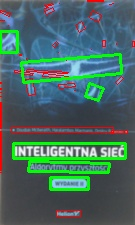
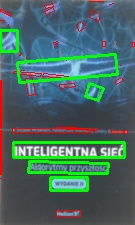
Text detector
Trying to detect text, issue with height and width of contour bounding rectangle.

diff --git a/Document-Perspective-Corrector/src/AutomaticPerspectiveCorrector/AutomaticPerspectiveCorrector.cpp b/Document-Perspective-Corrector/src/AutomaticPerspectiveCorrector/AutomaticPerspectiveCorrector.cpp
@@ -13,18 +13,19 @@
 AutomaticPerspectiveCorrector::AutomaticPerspectiveCorrector(cv::Mat sourceImage)
 	:sourceImage(sourceImage)
 {
-	NormalizeImageSize();
-	finalImage = this->sourceImage.clone();
+	this->sourceImage = NormalizeImageSize(this->sourceImage);
+	processedImage = this->sourceImage.clone();
 }
 
-void AutomaticPerspectiveCorrector::NormalizeImageSize()
+cv::Mat AutomaticPerspectiveCorrector::NormalizeImageSize(cv::Mat image)
 {
-	cv::resize(sourceImage, sourceImage, cv::Size(1200, 1600), cv::INTER_LANCZOS4);
+	cv::resize(image, image, cv::Size(1200, 1600), cv::INTER_LANCZOS4);
+	return image;
 }
 
 cv::Mat AutomaticPerspectiveCorrector::GetCorrectedImage()
 {
-	PreprocessImage();
+	processedImage = PreprocessImage(processedImage);
 	FindLargestCountur();
 
 	if (!debug) {
@@ -42,17 +43,16 @@ cv::Mat AutomaticPerspectiveCorrector::GetCorrectedImage()
 	}
 	
 	CorrectPerspective();
-	DetectText();
 
-
-	return sourceImage;
+	return processedImage;
 }
 
-void AutomaticPerspectiveCorrector::PreprocessImage()
+cv::Mat AutomaticPerspectiveCorrector::PreprocessImage(cv::Mat image)
 {
-	cv::cvtColor(finalImage, finalImage, cv::COLOR_BGR2GRAY);
-	finalImage.convertTo(finalImage, -1, 1, -50);
-	cv::threshold(finalImage, finalImage, 80, 255, cv::THRESH_BINARY);
+	cv::cvtColor(image, image, cv::COLOR_BGR2GRAY);
+	image.convertTo(image, -1, 1, -40);
+	cv::threshold(image, image, 80, 255, cv::THRESH_BINARY);
+	return image;
 }
 
 void AutomaticPerspectiveCorrector::FindLargestCountur()
@@ -62,7 +62,7 @@ void AutomaticPerspectiveCorrector::FindLargestCountur()
 	int maxImageArea = 1200 * 1600;
 	int eightyPercentOfMaxArea = 80 * maxImageArea / 100;
 
-	cv::findContours(finalImage, contours, hierarchy, cv::RETR_TREE, cv::CHAIN_APPROX_SIMPLE);
+	cv::findContours(processedImage, contours, hierarchy, cv::RETR_TREE, cv::CHAIN_APPROX_SIMPLE);
 	for (int i = 2; i < contours.size(); i++)
 	{
 		if (cv::contourArea(contours[i]) > cv::contourArea(contours[largestContourIndex]) && cv::contourArea(contours[i]) < eightyPercentOfMaxArea)
@@ -122,82 +122,62 @@ void AutomaticPerspectiveCorrector::CorrectPerspective()
 		destinationCorners.push_back(cv::Point(0, 0));
 		destinationCorners.push_back(cv::Point(destinationImageWidth - 1, 0));
 	}
+
 	homography = cv::findHomography(documentCorners, destinationCorners);
-
-	cv::warpPerspective(sourceImage, sourceImage, homography, cv::Size(destinationImageWidth, destinationImageHeight));	
+	cv::warpPerspective(sourceImage, processedImage, homography, cv::Size(destinationImageWidth, destinationImageHeight));	
 }
-
-
-
-void AutomaticPerspectiveCorrector::DetectText()
-{
-	cv::Mat rgb;
-
-	cv::pyrDown(sourceImage, rgb);
-	cv::pyrDown(rgb, rgb);
-
-	cv::Mat small;
-	cv::cvtColor(rgb, small, CV_BGR2GRAY);
-	SHOW(small);
-	cv::Mat grad;
-	cv::Mat morphKernel = cv::getStructuringElement(cv::MORPH_ELLIPSE, cv::Size(3, 3));
-
-	cv::morphologyEx(small, grad, cv::MORPH_GRADIENT, morphKernel);
-
-	cv::Mat bw;
-	cv::threshold(grad, bw, 0.0, 255.0, cv::THRESH_BINARY | cv::THRESH_OTSU);
-
-	cv::Mat connected;
-	morphKernel = cv::getStructuringElement(cv::MORPH_RECT, cv::Size(9,1));
-	cv::morphologyEx(bw, connected, cv::MORPH_CLOSE, morphKernel);
-	cv::Mat mask = cv::Mat::zeros(bw.size(), CV_8UC1);
-	std::vector<std::vector<cv::Point> > contours;
-	std::vector<cv::Vec4i> hierarchy;
-	cv::findContours(connected, contours, hierarchy, CV_RETR_CCOMP, CV_CHAIN_APPROX_SIMPLE, cv::Point(0, 0));
-	
-
-	for (int idx = 0; idx >= 0; idx = hierarchy[idx][0]) {
-		cv::Rect rect = boundingRect(contours[idx]);
-		cv::Mat maskROI(mask, rect);
-		maskROI = cv::Scalar(0, 0, 0);
-		
-		drawContours(mask, contours, idx, cv::Scalar(255, 255, 255), CV_FILLED);
-
-		cv::RotatedRect rrect = minAreaRect(contours[idx]);
-		double r = (double)countNonZero(maskROI) / (rrect.size.width * rrect.size.height);
-
-		cv::Scalar color;
-		int thickness = 1;
-		
-		if (r > 0.25 &&(rrect.size.height > 8 && rrect.size.width > 8))
-		{
-			thickness = 2;
-			color = cv::Scalar(0, 255, 0);
-		}
-		else
-		{
-			thickness = 1;
-			color = cv::Scalar(0, 0, 255);
-		}
-
-		cv::Point2f pts[4];
-		rrect.points(pts);
-		for (int i = 0; i < 4; i++)
-		{
-			line(rgb, cv::Point((int)pts[i].x, (int)pts[i].y), cv::Point((int)pts[(i + 1) % 4].x, (int)pts[(i + 1) % 4].y), color, thickness);
-		}
-	}
-
-	cv::imwrite("cont.jpg", rgb);
-
-}
-
-
 
 int AutomaticPerspectiveCorrector::MeasureDistanceBetweenPoints(cv::Point a, cv::Point b)
 {
 	return sqrt(pow(b.x - a.x, 2) + pow(b.y - a.y, 2));
 }
+
+
+void AutomaticPerspectiveCorrector::DetectText()
+{
+	cv::Mat imageForDetection = processedImage;
+
+	imageForDetection = PreprocessImage(imageForDetection);
+
+
+	cv::findContours(imageForDetection, contours, hierarchy, CV_RETR_CCOMP, CV_CHAIN_APPROX_SIMPLE, cv::Point(0, 0));
+
+	
+
+	int minimumArea = 75;
+	int maximumArea = 25000;
+	
+	for (int i = 0; i < contours.size(); i++)
+	{
+		int area = cv::contourArea(contours[i]);
+		if (area >= minimumArea && area <= maximumArea)
+		{
+			cv::Rect boundRectangle = cv::boundingRect(contours[i]);
+			int height = boundRectangle.height;
+			int width = boundRectangle.width;
+			double occupyrate = area / (height*width);
+			int aspectRatio = std::max(height, width) / std::min(height, width);
+			double compactness = area / (cv::arcLength(contours[i], true) *cv::arcLength(contours[i], true));
+
+			if ((occupyrate >= 0.02) && (occupyrate <= 0.95))
+			{
+				if (aspectRatio <= 6)
+				{
+					if (compactness > 0.003 && compactness <= 0.95)
+					{
+						cv::drawContours(processedImage, contours, i, cv::Scalar(0, 255, 0), 3);
+					}
+				}
+			}
+		}
+	}
+
+	SHOW(processedImage)
+}
+
+
+
+
 
 
 

diff --git a/Document-Perspective-Corrector/src/AutomaticPerspectiveCorrector/AutomaticPerspectiveCorrector.h b/Document-Perspective-Corrector/src/AutomaticPerspectiveCorrector/AutomaticPerspectiveCorrector.h
@@ -2,34 +2,26 @@
 #include "../ManualPerspectiveCorrector.h"
 
 
-
-cv::Mat AutomaticPerspectiveCorrection(cv::Mat sourceImage);
-
-
 class AutomaticPerspectiveCorrector
 {
 public:
 	AutomaticPerspectiveCorrector(cv::Mat sourceImage);
 	cv::Mat GetCorrectedImage();
-
+	void DetectText();
 
 private:
-	void NormalizeImageSize();
-	void PreprocessImage();
+	cv::Mat NormalizeImageSize(cv::Mat image);
+	cv::Mat PreprocessImage(cv::Mat image);
 	void FindLargestCountur();
 	int MeasureDistanceBetweenPoints(cv::Point a, cv::Point b);
 	void FindDocumentCorners();
 	void FindFourDocumentCorners(int epsilon);
-	void SortDocumentCorners();
-	cv::Point FindLeftCorner();
 	void CorrectPerspective();
-	void DetectText();
 
 	cv::Mat sourceImage;
-	cv::Mat finalImage;
+	cv::Mat processedImage;
 	std::vector<std::vector<cv::Point>> contours;
 	std::vector<cv::Vec4i> hierarchy;
 	int largestContourIndex;
-	std::vector<cv::Point> documentCorners;
-	
+	std::vector<cv::Point> documentCorners;	
 };

diff --git a/Document-Perspective-Corrector/src/Source.cpp b/Document-Perspective-Corrector/src/Source.cpp
@@ -13,7 +13,7 @@ int main()
 	
 	AutomaticPerspectiveCorrector corrector(image);
 	correctedImage = corrector.GetCorrectedImage();
-
+	corrector.DetectText();
 	cv::imshow("Result", correctedImage);
 	cv::waitKey(0);
 }
